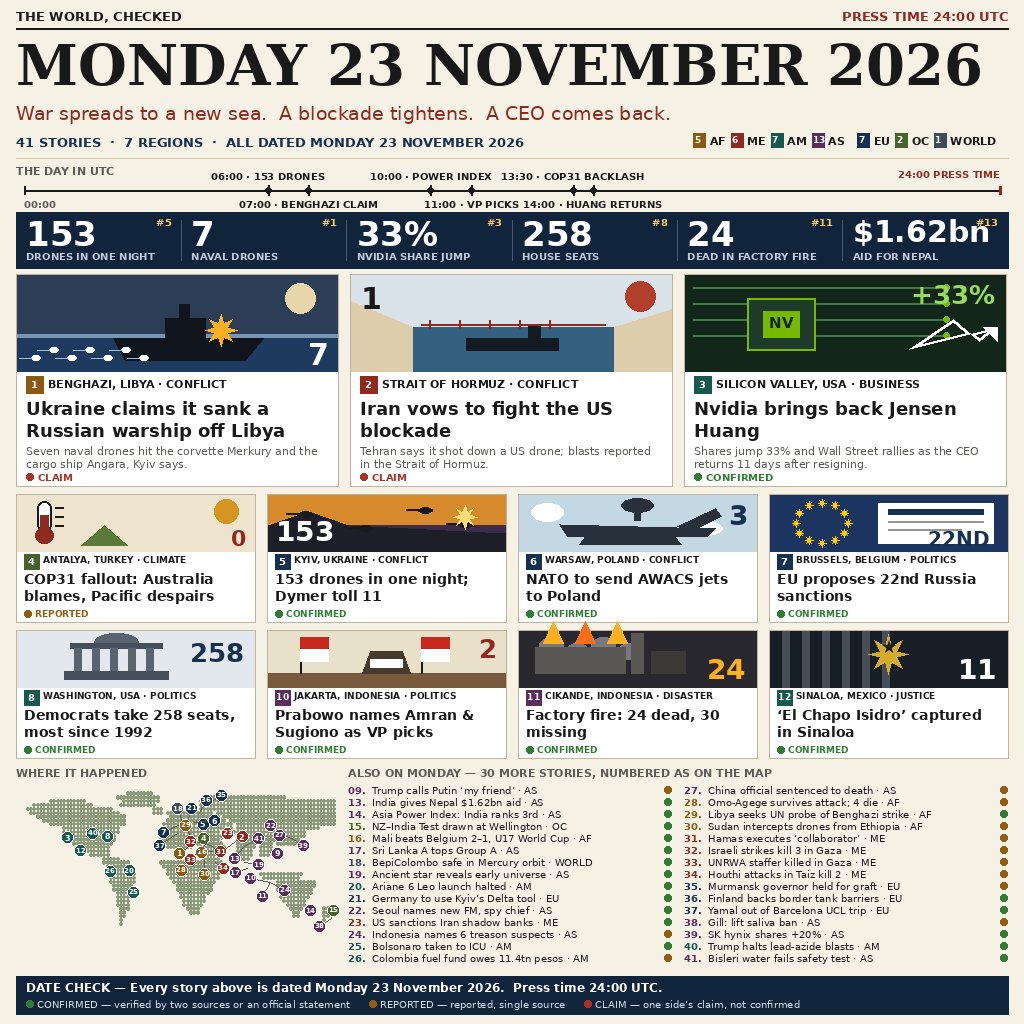
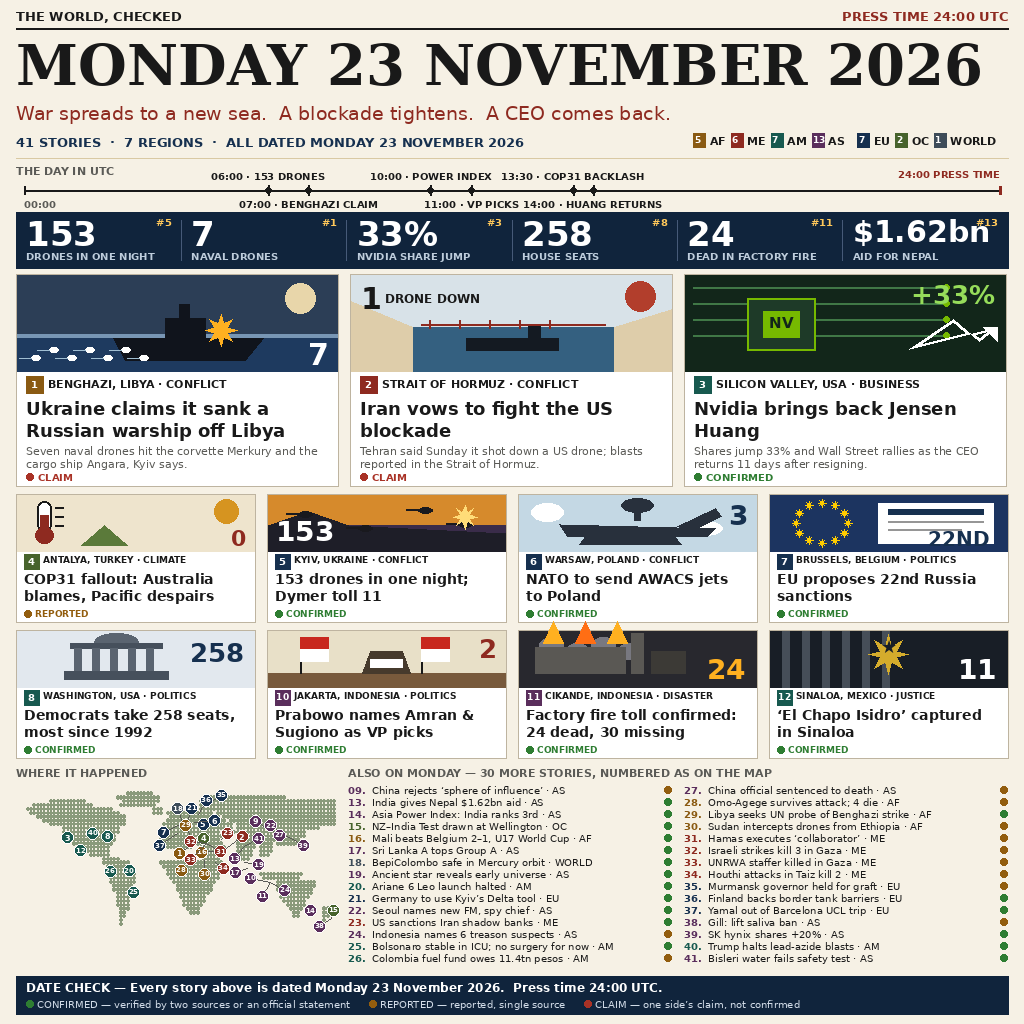
Putaran 2: perbaiki tanggal B1-B4 (brief #9, #25 diganti; jangkar Senin #11, #2; label O1; skor NZ 239/5)

diff --git a/render.py b/render.py
@@ -49,7 +49,7 @@ LEADS = [
      "CLAIM", "7", "sea"),
     (2, "ME", "CONFLICT", "STRAIT OF HORMUZ",
      "Iran vows to fight the US blockade",
-     "Tehran says it shot down a US drone; blasts reported in the Strait of Hormuz.",
+     "Tehran said Sunday it shot down a US drone; blasts reported in the Strait of Hormuz.",
      "CLAIM", "1", "strait"),
     (3, "AM", "BUSINESS", "SILICON VALLEY, USA",
      "Nvidia brings back Jensen Huang",
@@ -76,7 +76,7 @@ MIDS = [
      "Prabowo names Amran & Sugiono as VP picks",
      "CONFIRMED", "2", "podium"),
     (11, "AS", "DISASTER", "CIKANDE, INDONESIA",
-     "Factory fire: 24 dead, 30 missing",
+     "Factory fire toll confirmed: 24 dead, 30 missing",
      "CONFIRMED", "24", "factory"),
     (12, "AM", "JUSTICE", "SINALOA, MEXICO",
      "\u2018El Chapo Isidro\u2019 captured in Sinaloa",
@@ -84,7 +84,7 @@ MIDS = [
 ]
 # briefs: (n, region, title, status, lon, lat, dx, dy)
 BRIEFS = [
-    (9, "AS", "Trump calls Putin \u2018my friend\u2019", "REPORTED", 114.1, 22.5, 0, 0),
+    (9, "AS", "China rejects \u2018sphere of influence\u2019", "REPORTED", 116.4, 39.9, -24, -14),
     (13, "AS", "India gives Nepal $1.62bn aid", "CONFIRMED", 77.2, 28.6, -10, 12),
     (14, "AS", "Asia Power Index: India ranks 3rd", "CONFIRMED", 151.2, -33.9, 0, 0),
     (15, "OC", "NZ\u2013India Test drawn at Wellington", "CONFIRMED", 174.8, -41.3, 2, -8),
@@ -97,7 +97,7 @@ BRIEFS = [
     (22, "AS", "Seoul names new FM, spy chief", "CONFIRMED", 127.0, 37.5, -18, -12),
     (23, "ME", "US sanctions Iran shadow banks", "CONFIRMED", 51.4, 35.7, 6, -6),
     (24, "AS", "Indonesia names 6 treason suspects", "REPORTED", 106.8, -6.2, 14, 8),
-    (25, "AM", "Bolsonaro taken to ICU", "CONFIRMED", -47.9, -15.8, 0, 0),
+    (25, "AM", "Bolsonaro stable in ICU; no surgery for now", "CONFIRMED", -47.9, -15.8, 0, 0),
     (26, "AM", "Colombia fuel fund owes 11.4tn pesos", "REPORTED", -74.1, 4.7, 0, 0),
     (27, "AS", "China official sentenced to death", "REPORTED", 116.4, 39.9, 0, 0),
     (28, "AF", "Omo-Agege survives attack; 4 die", "REPORTED", 6.0, 5.5, 0, 0),
@@ -236,6 +236,7 @@ def illu_strait(d, x, y, w, h, big):
     for i in range(5):
         d.line([x + 78 + i * 30, y + h * 0.52 - 4, x + 78 + i * 30, y + h * 0.52 + 4], fill=BRICK, width=2)
     text(d, x + 10, y + 6, big, F_SANS_B(30), fill=INK)
+    text(d, x + 34, y + 16, "DRONE DOWN", F_SANS_B(12), fill=INK)  # O1: label the bare "1"
 
 def illu_chip(d, x, y, w, h, big):
     d.rectangle([x, y, x + w, y + h], fill=(18, 38, 26))           # dark board

diff --git a/STORIES.md b/STORIES.md
@@ -9,7 +9,7 @@ AS Asia, EU Europe, OC Oceania, WORLD global.
 ## Leads (cards 1–3)
 
 1. [AF · CONFLICT · CLAIM] Ukraine claims it sank a Russian warship off Libya — seven naval drones hit the corvette Merkury and the cargo ship Angara, Kyiv says. (Zelenskyy statement, 23 Nov)
-2. [ME · CONFLICT · CLAIM] Iran vows to fight the US blockade — Tehran says it shot down a US drone; blasts reported in the Strait of Hormuz. (Iranian state media / US officials, 23 Nov)
+2. [ME · CONFLICT · CLAIM] Iran vows to fight the US blockade — Tehran said Sunday it shot down a US drone; blasts reported in the Strait of Hormuz. (IRGC claim Sunday 22 Nov; Baghaei vow Monday 23 Nov)
 3. [AM · BUSINESS · CONFIRMED] Nvidia brings back Jensen Huang — shares jump 33%, Wall Street rallies as the CEO returns 11 days after resigning. (Company announcement, 23 Nov)
 
 ## Grid cards (4–8, 10–12)
@@ -25,10 +25,10 @@ AS Asia, EU Europe, OC Oceania, WORLD global.
 
 ## Briefs (9, 13–41)
 
-9. [AS · REPORTED] Trump calls Putin 'my friend' after the Shenzhen summit.
+9. [AS · REPORTED] China rejects 'sphere of influence' after the Shenzhen summit. (Chinese Foreign Ministry briefing Monday, Beijing; MENAFN 23 Nov)
 13. [AS · CONFIRMED] India gives Nepal a $1.62bn aid package.
 14. [AS · CONFIRMED] Asia Power Index 2026: India ranks 3rd (40.5; US 78.9, China 73.6).
-15. [OC · CONFIRMED] NZ–India Test drawn at Wellington (NZ 238/5; India declared 720/9).
+15. [OC · CONFIRMED] NZ–India Test drawn at Wellington (NZ 239/5; India declared 720/9).
 16. [AF · CONFIRMED] Mali beats Belgium 2–1, U17 World Cup.
 17. [AS · CONFIRMED] Sri Lanka A tops Group A, Asia Cup Rising Stars.
 18. [WORLD · CONFIRMED] BepiColombo safe in stable Mercury orbit (ESA update Monday).
@@ -38,7 +38,7 @@ AS Asia, EU Europe, OC Oceania, WORLD global.
 22. [AS · CONFIRMED] Seoul names new foreign minister and spy chief.
 23. [ME · CONFIRMED] US sanctions dozens in Iran shadow banking.
 24. [AS · REPORTED] Indonesia names 6 treason suspects, incl. ex-police chief Listyo Sigit.
-25. [AM · CONFIRMED] Bolsonaro taken to ICU with bowel obstruction.
+25. [AM · CONFIRMED] Bolsonaro stable in ICU; no surgery for now. (DF Star hospital bulletin via O Globo/RIA Novosti, 23 Nov; MercoPress Monday)
 26. [AM · REPORTED] Colombia fuel fund owes Ecopetrol 11.4tn pesos.
 27. [AS · REPORTED] China sentences official to death for leaking secrets.
 28. [AF · REPORTED] Omo-Agege survives alleged assassination attempt, 4 die (Nigeria).
